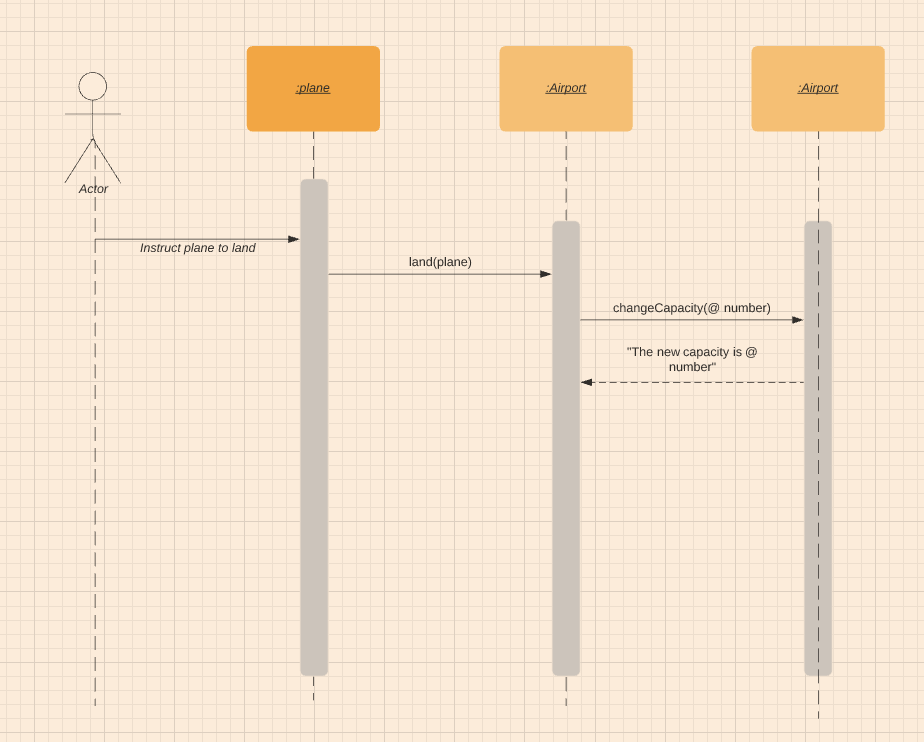
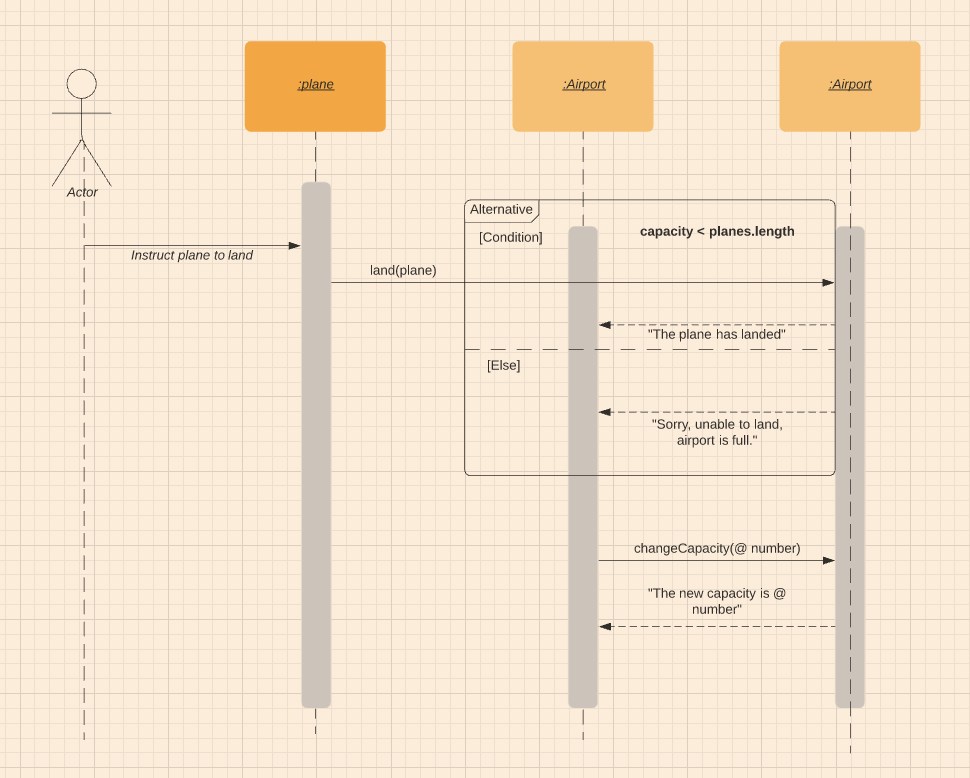
added tests, domain model for checking if airport is full

diff --git a/specs/airport.spec.js b/specs/airport.spec.js
@@ -2,7 +2,7 @@
 const Airport = require("../src/airport.js");
 const assertEquals = require("../testing-framework.js");
 
-let airport, plane 
+let airport, plane, newCapacity 
 
 // Land() Method Test -------------------
 console.log("Test to check if a plane can land in an airport");
@@ -19,16 +19,13 @@ console.log(airport.planes);
 //Verify
 console.log(`The length of the planes array is equal to one: ${assertEquals(airport.planes.length, 1)}`);
 
-console.log(`The planes array contains the testPlane ${assertEquals(airport.planes.includes('testPlane'), true)}`);
+console.log(`The planes array contains the testPlane ${assertEquals(airport.planes.includes('testPlane'), true)}\n`);
 // ---------------------------------------
 // Capacity Test -------------------
 console.log("Test to check the default capacity has been initialised andchangeCapacity() can overide the number contained in the capacity property");
 //Setup 
-const newCapacity = 10;
+newCapacity = 10;
 airport = new Airport();
-
-console.log(`Created instance of Airport class ${airport instanceof Airport}`);
-console.log);
 console.log(`The default airport capacity is: ${airport.capacity}`);
 
 //Execute
@@ -36,4 +33,21 @@ airport.changeCapacity(newCapacity);
 
 //Verify
 console.log(`The airport capacity has been overridden to ${airport.capacity}: ${assertEquals(airport.capacity, newCapacity)}`);
+// ---------------------------------------
+// Test for full airport - Land() 
+console.log("Testing the full condition on land() method");
+//Setup 
+airport = new Airport();
+newCapacity = 1;
+airport.changeCapacity(newCapacity);
+console.log(`The current airport capacity is: ${airport.capacity}\n`);
+
+//Execute (No new methods were added)
+
+//Verify
+// Land a plane in an empty Airport
+console.log(`Plane can land if airport has capacity: ${assertEquals("The plane has landed.", airport.land(plane))}`)
+// Land a plane in a full Airport
+console.log(`Plane cannot land if airport is full: ${assertEquals("Sorry, unable to land, the aiport is full.", airport.land(plane))}`)
+
 // ---------------------------------------

diff --git a/src/airport.js b/src/airport.js
@@ -2,10 +2,16 @@ class Airport {
   // here's a starting point for you
   constructor(){
     this.planes = [];
+    // Default capacity is 20. 
+    this.capacity = 20; 
   }
 
   land (plane) {
      this.planes.push(plane)
+  }
+
+  changeCapacity(newCapacity){
+    this.capacity = newCapacity; 
   }
 
 }

diff --git a/dom_mod/domain_model.md b/dom_mod/domain_model.md
@@ -40,3 +40,20 @@ Our table in part 1 is now updated as follows:
 | Plane | | | |
 |Airport | planes @ array | land(@ plane) | None |  
 | |capacity @ number | changeCapacity(@ number)| @ String|
+
+---
+### Part 3
+
+```
+As an air traffic controller
+To ensure safety
+I want to prevent landing when the airport is full
+```
+
+We shall change the output of land() to return a string if the airport is full. The condition for an airport to be full is if the current length of the planes array is equal to the airport.capacity property.  
+
+|Objects|Properties| Messages| Output|
+|---| --- | ---| --- |
+| Plane | | | |
+|Airport | planes @ array | land(@ plane) | @ String |  
+| |capacity @ number | changeCapacity(@ number)| @ String|
